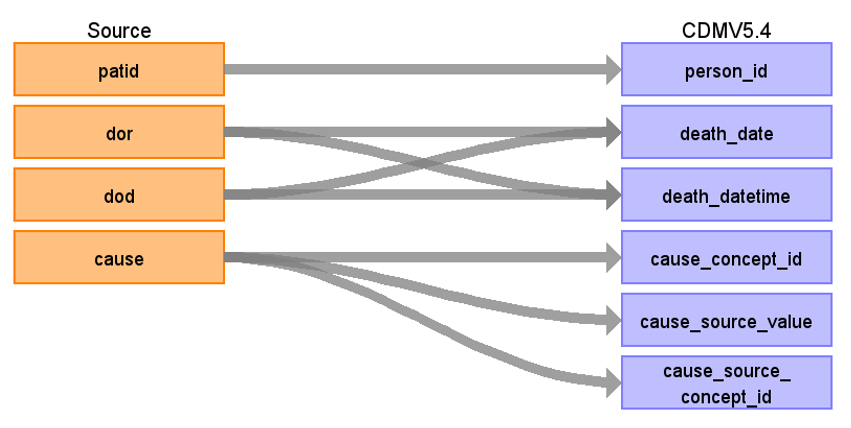
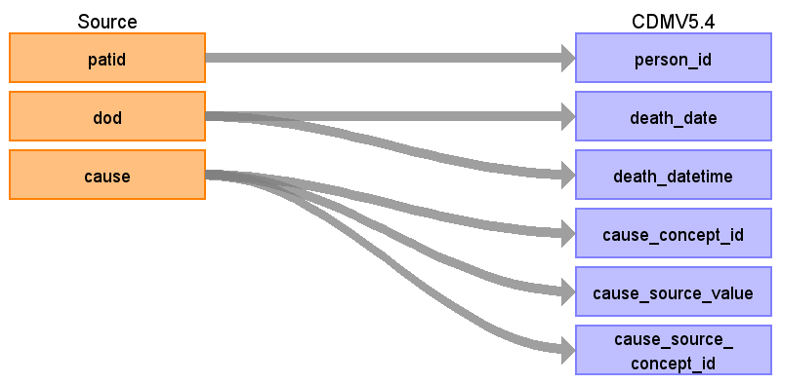
updated ons document
removed dor

diff --git a/docs/ONS_Mortality/ONS_Death.md b/docs/ONS_Mortality/ONS_Death.md
@@ -27,15 +27,15 @@ The matching steps are applied sequentially. If a CPRD GOLD or CPRD Aurum patien
 
 CPRD provides users with a match_rank variable which corresponds to the step at which the match was established. In general, a lower value for the match_rank is considered stronger evidence for a positive match. 
 
-**ONLY records with match_rank <= 2 are used in our mapping.**
+**ONLY records with match_rank =1 or 2 are used in our mapping.**
 
 ![](images/image02.png)
 
 | Destination Field | Source field | Logic | Comment field |
 | --- | --- | --- | --- |
 | person_id | patid | | |
-| death_date | dod | COALESCE(dod, dor) | |
-| death_datetime | dod | COALESCE(dod, dor) | |
+| death_date | dod | | |
+| death_datetime | dod | | |
 | death_type_concept_id | | Use [**32815** - Death Certificate](https://athena.ohdsi.org/search-terms/terms/32815) | |
 | cause_concept_id | cause | concept.concept_id | |
 | cause_source_value | cause | | |
